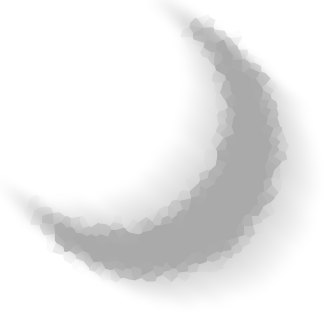
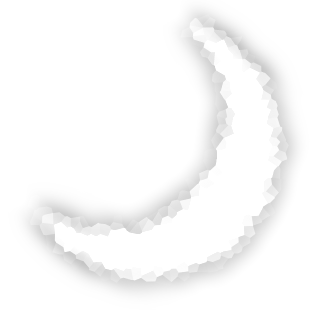
chandrium whip updated particles. wip

Changed region(s): [[0.0923, 0.0615, 0.8923, 0.8615]]

diff --git a/Common/Utils/Utility.Math.cs b/Common/Utils/Utility.Math.cs
@@ -1,11 +1,41 @@
 using Microsoft.Xna.Framework;
 using System;
+using System.Drawing.Drawing2D;
 using Terraria;
 
 namespace Macrocosm.Common.Utils
 {
 	public static partial class Utility
 	{
+		#region Interpolation
+
+		/// <summary>
+		/// Calculates the inverse lerp value representing the relative position of the input value between the specified range.
+		/// </summary>
+		/// <param name="from">The starting value.</param>
+		/// <param name="to">The ending value.</param>
+		/// <param name="t">The input value to calculate the inverse lerp for.</param>
+		/// <param name="clamped">Specifies whether the result should be clamped between 0 and 1.</param>
+		/// <returns>Specifies whether the result should be clamped between 0 and 1.</returns>
+		public static float InverseLerp(float from, float to, float value, bool clamped = false)
+			=> Terraria.Utils.GetLerpValue(from, to, value, clamped);
+
+		/// <summary> Performs a logarithmic interpolation between 0 and 1 based on the given value and logarithmic base. </summary>
+		/// /// <param name="t">The input value between 0 and 1.</param>
+		/// <param name="logBase">The logarithmic base to use (optional, default = 10).</param>
+		/// <returns>The interpolated value between 0 and 1 based on the logarithmic scale.</returns>
+		public static float LogarithmicLerp(float t, int logBase = 10)
+		{
+			t = MathHelper.Clamp(t, 0, 1);
+			float lerpValue = MathF.Pow(logBase, t) - 1f;
+			float maxLerpValue = MathF.Pow(logBase, 1f) - 1f;
+			return lerpValue / maxLerpValue;
+		}
+
+		#endregion
+
+		#region Rotation & angles
+
 		/// <summary>
 		/// Converts the polar coordinates of a point to it's cartesian ones
 		/// </summary>
@@ -14,9 +44,6 @@ namespace Macrocosm.Common.Utils
 		/// <returns> The point's cartesian coordinates relative to the origin  </returns>
 		public static Vector2 PolarVector(float radius, float theta)
 			=> new Vector2((float)Math.Cos(theta), (float)Math.Sin(theta)) * radius;
-
-		public static float InverseLerp(float from, float to, float value, bool clamped)
-			=> Terraria.Utils.GetLerpValue(from, to, value, clamped);
 
 		/// <summary>
 		/// Gets the position of a point rotating about an origin using a rotation matrix
@@ -33,11 +60,21 @@ namespace Macrocosm.Common.Utils
 				origin.Y + (offset.X - origin.X) * (float)Math.Sin(theta) + (offset.Y - origin.Y) * (float)Math.Cos(theta)
 			);
 		}
-		
-		public static float RandomRotation() 
+
+		/// <summary> Generates a random rotation value within the range of -pi to pi. </summary>
+		/// <returns> A random rotation value in radians. </returns>
+		public static float RandomRotation()
 			=> Main.rand.NextFloat(-MathHelper.Pi, MathHelper.Pi);
 
-		public static float TriangleWave(float period, float phase)
+		#endregion
+
+		#region Signals
+
+		/// <summary> Generates a triangle wave based on the given period and phase. </summary>
+		/// <param name="period">The duration of one complete cycle of the wave.</param>
+		/// <param name="phase">The starting phase offset of the wave (optional).</param>
+		/// <returns>The value of the triangle wave ranging from -1 to 1.</returns>
+		public static float TriangleWave(float period, float phase = 0)
 		{
 			float time = ((float)Main.timeForVisualEffects + phase) % period;
 			float position = time / period;
@@ -45,15 +82,64 @@ namespace Macrocosm.Common.Utils
 			return 2 * (slope - 0.5f);
 		}
 
-		public static float SineWave(float period, float phase)
+		/// <summary> Generates a sine wave based on the given period and phase. </summary>
+		/// <param name="period">The duration of one complete cycle of the wave.</param>
+		/// <param name="phase">The starting phase offset of the wave (optional).</param>
+		/// <returns>The value of the sine wave ranging from -1 to 1.</returns>
+		public static float SineWave(float period, float phase = 0)
 		{
 			float time = ((float)Main.timeForVisualEffects) % period;
-			float angle = (2 * MathF.PI * (1/period) * time) + phase;
+			float angle = (2 * MathF.PI * (1 / period) * time) + phase;
 			return MathF.Sin(angle);
 		}
 
-		public static float PositiveSineWave(float period, float phase)
+		/// <summary> Generates a positive-only sine wave based on the given period and phase.</summary>
+		/// <param name="period">The duration of one complete cycle of the wave.</param>
+		/// <param name="phase">The starting phase offset of the wave (optional).</param>
+		/// <returns> The value of the positive-only sine wave ranging from 0 to 1.</returns>
+		public static float PositiveSineWave(float period, float phase = 0)
 			=> (SineWave(period, phase) + 1f) * 0.5f;
+
+		#endregion
+
+		#region Easing functions
+
+		/// <summary> Applies quadratic easing-in to the input value.  </summary>
+		/// <param name="t">The input value to apply easing to.</param>
+		/// <returns>The eased value based on quadratic easing-in.</returns>
+		public static float QuadraticEaseIn(float t) => t * t;
+
+		/// <summary> Applies quadratic easing-out to the input value. </summary>
+		/// <param name="t">The input value to apply easing to.</param>
+		/// <returns>The eased value based on quadratic easing-out.</returns>
+		public static float QuadraticEaseOut(float t) => t * (2f - t);
+
+		/// <summary>  Applies quadratic easing-in-out to the input value.  </summary>
+		/// <param name="t">The input value to apply easing to.</param>
+		/// <returns>The eased value based on quadratic easing-in-out.</returns>
+		public static float QuadraticEaseInOut(float t)
+			=> (t < 0.5) ? (2f * t * t) : (-1f + (4f - 2f * t) * t);
+
+		/// <summary> Applies cubic easing-in to the input value.  </summary>
+		/// <param name="t">The input value to apply easing to.</param>
+		/// <returns>The eased value based on cubic easing-in.</returns>
+		public static float CubicEaseIn(float t) => t * t * t;
+
+		/// <summary> Applies cubic easing-out to the input value. </summary>
+		/// <param name="t">The input value to apply easing to.</param>
+		/// <returns>The eased value based on cubic easing-out.</returns>
+		public static float CubicEaseOut(float t)
+			=> (t - 1f) * (t - 1f) * (t - 1f) + 1f;
+
+		/// <summary>  Applies cubic easing-in-out to the input value.  </summary>
+		/// <param name="t">The input value to apply easing to.</param>
+		/// <returns>The eased value based on cubic easing-in-out.</returns>
+		public static float CubicEaseInOut(float t)
+			=> (t < 0.5) ? (4f * t * t * t) : 0.5f + CubicEaseOut(t);
+
+		#endregion
+
+		#region Derivatives
 
 		/// <summary>
 		/// Applies a logarithmic derivative to <paramref name="value"/>
@@ -70,7 +156,12 @@ namespace Macrocosm.Common.Utils
 			return value;
 		}
 
-		// Thank you code from TerrariaAmbience
+		// Thank you code from TerrariaAmbience - Ryan
+		/// <summary> Creates a gradient value based on the given input value and range. </summary>
+		/// <param name="value">The input value.</param>
+		/// <param name="min">The minimum value of the range.</param>
+		/// <param name="max">The maximum value of the range.</param>
+		/// <returns>The gradient value between 0 and 1 based on the input value's position within the range.</returns>
 		public static double CreateGradientValue(double value, double min, double max)
 		{
 			double mid = (max + min) / 2;
@@ -87,6 +178,11 @@ namespace Macrocosm.Common.Utils
 			return returnValue;
 		}
 
+		/// <summary> Creates a gradient value based on the given input value and range. </summary>
+		/// <param name="value">The input value.</param>
+		/// <param name="min">The minimum value of the range.</param>
+		/// <param name="max">The maximum value of the range.</param>
+		/// <returns>The gradient value between 0 and 1 based on the input value's position within the range.</returns>
 		public static float CreateGradientValue(float value, float min, float max)
 		{
 			float mid = (max + min) / 2;
@@ -102,5 +198,7 @@ namespace Macrocosm.Common.Utils
 			returnValue = Terraria.Utils.Clamp(returnValue, 0, 1);
 			return returnValue;
 		}
+
+		#endregion
 	}
 }

diff --git a/Content/Particles/ChandriumSparkle.cs b/Content/Particles/ChandriumSparkle.cs
@@ -1,23 +1,21 @@
 using Microsoft.Xna.Framework;
 using Microsoft.Xna.Framework.Graphics;
 using Terraria;
+using Terraria.ModLoader;
 using Terraria.GameContent;
+using Macrocosm.Common.Utils;
+using Macrocosm.Content.Dusts;
+using Macrocosm.Common.Netcode;
 using Macrocosm.Common.Drawing.Particles;
 using Macrocosm.Content.Projectiles.Friendly.Summon;
-using Macrocosm.Common.Netcode;
-using Terraria.ModLoader;
-using Macrocosm.Content.Dusts;
-using Macrocosm.Common.Utils;
-using Macrocosm.Content.Buffs.GoodBuffs;
-using static Terraria.ModLoader.PlayerDrawLayer;
-
+ 
 namespace Macrocosm.Content.Particles
 {
 	public class ChandriumSparkle : Particle
 	{
 		public override string TexturePath => Macrocosm.EmptyTexPath;
 
-		public override int TrailCacheLenght => 10;
+		public override int TrailCacheLenght => 8;
 
 		public override ParticleDrawLayer DrawLayer => ParticleDrawLayer.AfterProjectiles;
 
@@ -31,11 +29,10 @@ namespace Macrocosm.Content.Particles
 
 		public override void OnSpawn()
 		{
-  		}
+		}
 
 		public override void Draw(SpriteBatch spriteBatch, Vector2 screenPosition, Color lightColor)
 		{
-
 			var state = spriteBatch.SaveState();
 
 			spriteBatch.End();
@@ -47,7 +44,7 @@ namespace Macrocosm.Content.Particles
 			spriteBatch.Draw(tex, Position - screenPosition, null, new Color(177, 107, 219, 127), MathHelper.PiOver2 + Rotation, TextureAssets.Extra[89].Size() / 2f, ScaleV, SpriteEffects.None, 0f);
 			Lighting.AddLight(Position, new Vector3(0.607f, 0.258f, 0.847f));
 
-			
+
 			for (int i = 1; i < TrailCacheLenght; i++)
 			{
 				float factor = 1f - (i / (float)TrailCacheLenght);
@@ -55,18 +52,19 @@ namespace Macrocosm.Content.Particles
 				spriteBatch.Draw(tex, Vector2.Lerp(OldPositions[i - 1], OldPositions[i], factor) - screenPosition, null, new Color(177, 107, 219, (int)(127 * factor)), 0f + OldRotations[i], TextureAssets.Extra[89].Size() / 2f, ScaleV * factor, SpriteEffects.None, 0f);
 				spriteBatch.Draw(tex, Vector2.Lerp(OldPositions[i - 1], OldPositions[i], factor) - screenPosition, null, new Color(177, 107, 219, (int)(127 * factor)), MathHelper.PiOver2 + OldRotations[i], TextureAssets.Extra[89].Size() / 2f, ScaleV * factor, SpriteEffects.None, 0f);
 
-				if (whipActive) 
+				if (whipActive)
 				{
-					for(float s = 0.333f; s < 1f; s += 0.333f)
-					{
-						float lerpFactor = MathHelper.Lerp(factor, 1f - ((i + 1) / (float)TrailCacheLenght), s);
-						spriteBatch.Draw(tex, Vector2.Lerp(OldPositions[i - 1], OldPositions[i], s * factor) - screenPosition, null, new Color(177, 107, 219, 64), 0f + Rotation, TextureAssets.Extra[89].Size() / 2f, ScaleV * lerpFactor, SpriteEffects.None, 0f);
-						spriteBatch.Draw(tex, Vector2.Lerp(OldPositions[i - 1], OldPositions[i], s * factor) - screenPosition, null, new Color(177, 107, 219, 64), MathHelper.PiOver2 + Rotation, TextureAssets.Extra[89].Size() / 2f, ScaleV * lerpFactor, SpriteEffects.None, 0f);
-
-					}
- 				}
-
-				Lighting.AddLight(Position, new Vector3(0.607f, 0.258f, 0.847f) * factor);
+					//for (float s = 0.333f; s < 1f; s += 0.333f)
+					//{	
+					//	// Calculate the eased position using Lerp
+					//	Vector2 easedPosition = Vector2.Lerp(OldPositions[i - 1], OldPositions[i], s);
+					//
+					//	// Draw the sprite with eased position
+					//	spriteBatch.Draw(tex, easedPosition - screenPosition, null, new Color(177, 107, 219, 64), 0f + Rotation, TextureAssets.Extra[89].Size() / 2f, ScaleV * factor, SpriteEffects.None, 0f);
+					//	spriteBatch.Draw(tex, easedPosition - screenPosition, null, new Color(177, 107, 219, 64), MathHelper.PiOver2 + Rotation, TextureAssets.Extra[89].Size() / 2f, ScaleV * factor, SpriteEffects.None, 0f);
+					//}
+					//Lighting.AddLight(Position, new Vector3(0.607f, 0.258f, 0.847f) * factor);
+				}
 			}
 
 			spriteBatch.End();
@@ -100,7 +98,6 @@ namespace Macrocosm.Content.Particles
 				return;
 			}
 
-
 			if (whipActive)
 			{
 				Vector2 targetPosition = (Main.projectile[whipIdx].ModProjectile as ChandriumWhipProjectile).WhipTipPosition;
@@ -115,7 +112,7 @@ namespace Macrocosm.Content.Particles
 
 					// Apply the eased position to the whip tip
 					Position = currentPosition;
-					Scale = 0.9f;
+					Scale = 0.6f;
 				}
 			}
 			else

diff --git a/Content/Projectiles/Friendly/Summon/ChandriumStaffMinion.cs b/Content/Projectiles/Friendly/Summon/ChandriumStaffMinion.cs
@@ -360,6 +360,5 @@ namespace Macrocosm.Content.Projectiles.Friendly.Summon
 
 			return true;
 		}
-
 	}
 }
